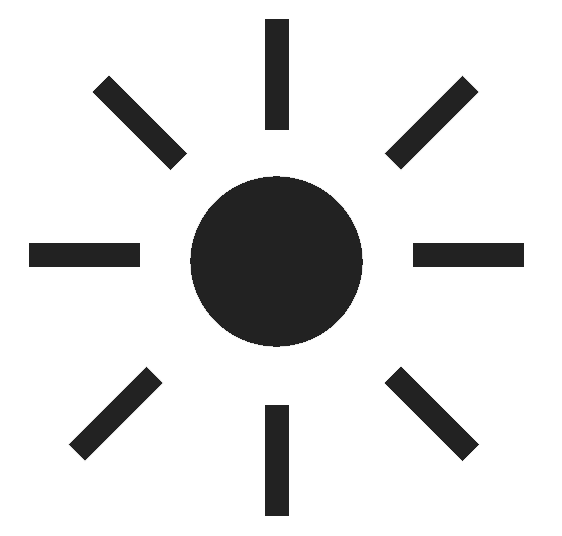
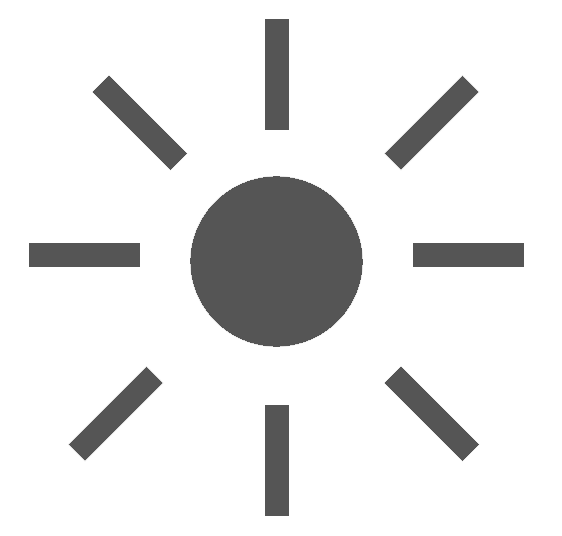
loader on main screen as well as on contact form

diff --git a/src/pages/Projects.jsx b/src/pages/Projects.jsx
@@ -5,25 +5,28 @@ import Content from '../components/Content'
 const Projects = ({ mode }) => {
   return (
     <div id='projects'>
-      <div className='h-[100vh] flex flex-col md:flex-row items-center justify-center gap-4 md:p-0 p-4'>
+      <div className='h-[100vh] flex flex-col md:flex-row items-center justify-center gap-5 md:p-0 p-4'>
         <Project src={'https://know-weather-at-your-current-location.vercel.app/'} mode={mode} />
         <div className='md:w-1/3 w-full py-4'>
           <p className={`text-lg font-medium ${mode === 'theme-light' ? 'text-[#222]' : 'text-[#E0E0E0]'}`}>Know Your Weather</p>
-          <HeaderLine/>
-          <Content mode={mode} text={'Web pages are becoming increasingly complex with more scripts, style sheets, images, and Flash on them. A first-time visit to a page may require several HTTP requests to load all the components. By using Expires headers these components become cacheable, which avoids unnecessary HTTP requests on subsequent page views. Expires headers are most often associated with images, but they can and should be used on all page components including scripts, style sheets, and Flash.'} />
+          <HeaderLine />
+          <Content mode={mode} line1={'Technologies used: React.js, Tailwind CSS, Api Integration, Geolocation'} line2={'OpenWeatherApi is used to fetch real-time weather data'} line3={"Utilizes the browser's Geolocation API to get the user's latitude and longitude"} line4={'Fetches weather details like temperature, humidity, wind speed, and weather conditions.'} />
         </div>
       </div>
 
-      <div className='h-[100vh] flex flex-col md:flex-row-reverse items-center justify-center gap-4 md:p-0 p-4'>
+      <div className='h-[100vh] flex flex-col md:flex-row-reverse items-center justify-center gap-5 md:p-0 p-4'>
         <Project src={'https://forever-frontend-kohl.vercel.app/'} mode={mode} />
         <div className='md:w-1/3 w-full py-4'>
           <p className={`text-lg font-medium ${mode === 'theme-light' ? 'text-[#222]' : 'text-[#E0E0E0]'}`}>An E-commerce Website: Forever</p>
-          <HeaderLine/>
-          <Content mode={mode} text={'Web pages are becoming increasingly complex with more scripts, style sheets, images, and Flash on them. A first-time visit to a page may require several HTTP requests to load all the components. By using Expires headers these components become cacheable, which avoids unnecessary HTTP requests on subsequent page views. Expires headers are most often associated with images, but they can and should be used on all page components including scripts, style sheets, and Flash.'} />
+          <HeaderLine />
+          <Content mode={mode} line1={'Technologies used: React.js, Tailwind CSS, MongoDB, Express.js, Node.js, Payment Integration:Stripe'}
+            line2={"Authentication: JWT (JSON Web Token) for secure user authentication."}
+            line3={"Product Listings: Displays various products with filtering and sorting options."}
+            line4={"Order Management: Users can track their orders, and admins can manage product listings."} />
         </div>
       </div>
 
-      
+
     </div>
   )
 }

diff --git a/src/pages/About.jsx b/src/pages/About.jsx
@@ -6,16 +6,18 @@ const About = ({mode}) => {
   return (
     <div className='h-[100vh] flex flex-col md:flex-row gap-4 items-center justify-center md:p-0 p-4' id='about'>
       <div className='md:w-1/2 w-full'>
-        <p className={`text-2xl py-4 font-semibold ${mode==='theme-light'?'text-[#222]':'text-[#E0E0E0]'}`}>Hey, I'm Vaibhav</p>
+        <p className={`text-xl md:text-2xl py-4 font-semibold ${mode==='theme-light'?'text-[#222]':'text-[#E0E0E0]'}`}>Hey, I'm Vaibhav</p>
         <HeaderLine/>
         <motion.div initial={{y:50,opacity:0}} whileInView={{y:0,opacity:1}} transition={{ease:'easeInOut',duration:1,type:'spring'}} className={`py-2 md:py-3 ${mode==='theme-light'?'text-[#555]':'text-[#AAAAAA]'}`}>
-          <p>A passionate Full-Stack Developer specializing in the MERN stack, I love building dynamic, scalable, and user-friendly web applications. With a strong foundation in MongoDB, Express.js, React, and Node.js, I transform ideas into interactive digital experiences.</p>
+          <div className='text-sm md:text-base'>
+          <p>A passionate Full-Stack Developer specializing in the MERN stack, I love building dynamic, scalable, and user-friendly web applications. With a strong foundation in <span className={`${mode==='theme-light'?'text-[#007BFF]':'text-[#FF007A]'}`}>MongoDB, Express.js, React, Node.js, Python </span> and <span className={`${mode==='theme-light'?'text-[#007BFF]':'text-[#FF007A]'}`}>JAVA</span>. I transform ideas into interactive digital experiences.</p>
           <div className='py-2 md:py-3'>
-            <p>My passion for coding started with curiosity and grew into a career where I solve problems, build products, and continuously learn new technologies. Whether it's developing e-commerce platforms, web apps, or search scrapers, I strive to write clean, maintainable, and efficient code.</p>
+            <p>My passion for coding started with curiosity and grew into a career where I solve problems, build products, and continuously learn new technologies.</p>
+            <p>I'm also a firm believer in the power of technology to make a positive impact on the world. I'm always looking for opportunities to use my skills to make a difference.</p>
           </div>
           <div className='py-2 md:py-3'>
-            
             <p>I'm always open to exciting projects and collaborations. Feel free to <span><a className={`${mode==='theme-light'?'text-[#007BFF] hover:text-[#FF007A]':'text-[#FF007A] hover:text-[#00E5FF]'} transition-all duration-200`} href="#contact">Connect Me</a></span> and let's create something amazing together!</p>
+          </div>
           </div>
           <a href={assets.resume} download={assets.resume}><motion.button whileTap={{ scale: 0.95 }} className={`mt-4 btn-contact text-[#F5F5F5] ${mode==='theme-light'?'bg-[#222222]':'bg-[#FF007A]'} p-4`}>Download Resume</motion.button></a>
         </motion.div>

diff --git a/src/pages/Contact.jsx b/src/pages/Contact.jsx
@@ -3,11 +3,13 @@ import { assets } from '../assets/assets'
 import {motion} from 'motion/react'
 import HeaderLine from '../components/HeaderLine';
 import { toast } from 'react-toastify';
+import ContactLoader from '../components/ContactLoader';
 
 const Contact = ({mode}) => {
 
   const [email,setEmail]=useState('');
   const [message,setMessage]=useState('');
+  const [loader,setLoader]=useState(false);
 
   const onChangeHandler=(e)=>{
     setMessage(e.target.value);
@@ -25,6 +27,8 @@ const Contact = ({mode}) => {
     const object = Object.fromEntries(formData);
     const json = JSON.stringify(object);
 
+    setLoader(true);
+
     const res = await fetch("https://api.web3forms.com/submit", {
       method: "POST",
       headers: {
@@ -37,16 +41,18 @@ const Contact = ({mode}) => {
     if (res.success) {
       setEmail('');
       setMessage('');
+      setLoader(false);
       toast.success("Email sent successfully");
     }
   };
 
   return (
     <div className='h-[100vh] flex items-center justify-center' id='contact'>
+      {loader?<ContactLoader/>:
       <div className='xl:w-1/2 sm:w-4/5 w-full p-4'>
         <p className='text-2xl pb-8'>Contact Me</p>
         <HeaderLine/>
-        <motion.form initial={{x:-50,opacity:0}} whileInView={{x:0,opacity:1}} transition={{type:'spring',duration:1}} onSubmit={onSubmit} className='flex flex-col gap-10 py-12'>
+        <motion.form initial={{x:-50,opacity:0}} whileInView={{x:0,opacity:1}} transition={{type:'spring',duration:0.5}} onSubmit={onSubmit} className='flex flex-col gap-10 py-12'>
           <input className={`p-4 border-b border-[#333333] text-[#777] ${mode==='theme-light'?'bg-[#F5F5F5] border-b-[#555] focus:border-b-[#000]':'bg-[#121212] focus:border-b-[#FF007A]'} outline-none transition-all duration-200`} name='email' value={email} onChange={(e)=>setEmail(e.target.value)}  type="email" placeholder='JoeDoe@gmail.com' required />
           <textarea className={`p-4 border-b resize-none border-[#333333] text-[#777] ${mode==='theme-light'?'bg-[#F5F5F5] border-b-[#555] focus:border-b-[#000]':'bg-[#121212] focus:border-b-[#FF007A]'} outline-none transition-all duration-200`} rows={'1'} name="message" value={message} onChange={(e)=>onChangeHandler(e)} placeholder='Say hello......' required>
           </textarea>
@@ -54,7 +60,7 @@ const Contact = ({mode}) => {
             Send Message <img width={'30rem'} src={assets.send} alt="" />
           </motion.button>
         </motion.form>
-      </div>
+      </div>}
     </div>
   )
 }

diff --git a/src/App.jsx b/src/App.jsx
@@ -6,25 +6,33 @@ import Projects from './pages/Projects';
 import Contact from './pages/Contact';
 import Footer from './components/Footer';
 import { ToastContainer } from 'react-toastify';
+import Loader from './components/Loader';
 
 const App = () => {
+  const [isVisible,setIsVisible]=useState(true);
+  const [theme, setTheme] = useState('theme-dark');
 
-  const [theme,setTheme]=useState('theme-dark');
-
-  useEffect(()=>{
+  useEffect(() => {
     const darkModeMediaQuery = window.matchMedia('(prefers-color-scheme: dark)');
     setTheme(darkModeMediaQuery.matches ? 'theme-dark' : 'theme-light');
-  },[]);
+    setTimeout(()=>{
+      setIsVisible(false);
+    },5000);
+  }, []);
 
   return (
-    <div className={`${theme==='theme-light'?'bg-[#F5F5F5] text-[#555]':'bg-[#121212] text-[#E0E0E0]'} ${theme}`}>
-      <ToastContainer/>
-      <Navbar mode={theme} set={setTheme}/>
-      <Home mode={theme} />
-      <About mode={theme}/>
-      <Projects mode={theme} />
-      <Contact mode={theme}/>
-      <Footer/>
+    <div className={`${theme === 'theme-light' ? 'bg-[#F5F5F5] text-[#555]' : 'bg-[#121212] text-[#E0E0E0]'} ${theme}`}>
+      {isVisible?<Loader mode={theme}/>:
+      <div>
+        <ToastContainer />
+        <Navbar mode={theme} set={setTheme} />
+        <Home mode={theme} />
+        <Projects mode={theme} />
+        <About mode={theme} />
+        <Contact mode={theme} />
+        <Footer />
+      </div>
+      }
     </div>
   )
 }

diff --git a/src/components/Content.jsx b/src/components/Content.jsx
@@ -1,8 +1,15 @@
 import {motion} from 'motion/react'
 
-const Content = ({text,mode}) => {
+const Content = ({line1,line2,line3,line4,mode}) => {
   return (
-    <motion.p initial={{y:50,opacity:0}} whileInView={{y:0,opacity:1}} transition={{ease:'easeInOut',duration:1,type:'spring'}} className={`text-sm ${mode === 'theme-light' ? 'text-[#555]' : 'text-[#AAAAAA]'}`}>{text}</motion.p>
+    <motion.div initial={{y:50,opacity:0}} whileInView={{y:0,opacity:1}} transition={{ease:'easeInOut',duration:0.5,type:'spring'}} className={`text-sm ${mode === 'theme-light' ? 'text-[#555]' : 'text-[#AAAAAA]'}`}>
+      <ul className='list-disc list-inside lg:list-outside text-xs md:text-sm lg:text-base'>
+        <li className='py-0.5'>{line1}</li>
+        <li className='py-0.5'>{line2}</li>
+        <li className='py-0.5'>{line3}</li>
+        <li className='py-0.5'>{line4}</li>
+      </ul>
+      </motion.div>
   )
 }
 

diff --git a/src/components/Project.jsx b/src/components/Project.jsx
@@ -6,9 +6,9 @@ const Project = ({src,mode}) => {
   const [preview,setPreview]=useState(false);
 
   return (
-    <motion.div onClick={()=>setPreview(!preview)}  initial={{opacity:0}} whileInView={{opacity:1}} transition={{duration:2,ease:'easeInOut'}} className='md:w-1/2 w-full md:h-[65vh] h-1/2 border-2'>
+    <motion.div onClick={()=>setPreview(!preview)}  initial={{opacity:0}} whileInView={{opacity:1}} transition={{duration:1,ease:'easeInOut'}} className='md:w-1/2 w-full md:h-[65vh] h-1/2 border-2'>
       {!preview?
-      <div className={`w-full h-full flex justify-center items-center ${mode==='theme-light'?'bg-[#222]':'bg-[#555]'} underline`}>
+      <div className={`w-full h-full flex justify-center items-center bg-[#555] text-[#E0E0E0] underline cursor-pointer`}>
           View Site
       </div>:
       <iframe src={src} sandbox="allow-scripts allow-same-origin" className='w-full h-full'/>}

diff --git a/src/components/Navbar.jsx b/src/components/Navbar.jsx
@@ -25,7 +25,7 @@ const Navbar = ({ mode, set }) => {
           {!sidemenu && (
             <div>
               <a href='/' className={'block'}>
-                <p className='text-3xl font-bold'>V</p>
+                <img className='w-4 md:w-6' src={`${mode==='theme-light'?'/lightModeLogo.png':'/darkModeLogo.png'}`} alt="" />
               </a>
             </div>
           )}
@@ -63,7 +63,7 @@ const Navbar = ({ mode, set }) => {
       >
         <div className='flex justify-between items-center w-full px-6 py-8'>
           <a href='/' onClick={() => setSidemenu(false)}>
-            <p className='text-3xl font-bold'>V</p>
+          <img className='w-8' src={`${mode==='theme-light'?'/lightModeLogo.png':'/darkModeLogo.png'}`} alt="" />
           </a>
           <motion.button
             whileTap={{ scale: 0.95, opacity: 0.5 }}

diff --git a/src/components/Loader.jsx b/src/components/Loader.jsx
@@ -1,0 +1,25 @@
+import { useState, useEffect } from "react";
+import {motion} from 'motion/react'
+
+const Loader = ({mode}) => {
+  const text = "Just a Developer, Standing in Front of a Bug...";
+  const [visibleText, setVisibleText] = useState("");
+
+  useEffect(() => {
+    text.split("").forEach((char, index) => {
+      setTimeout(() => {
+        setVisibleText((prev) => prev + char);
+      }, index * 75);
+    });
+  }, []);
+
+  
+
+  return (
+    <motion.div initial={{opacity:1}} animate={{opacity:0}} transition={{duration:2.9,ease:'easeInOut',delay:3}} className={`flex p-4 justify-center items-center w-screen h-screen text-lg ${mode==='theme-light'?'text-[#00E5FF]':'text-[#FF007A]'}`}>
+        {visibleText}
+    </motion.div>
+  );
+};
+
+export default Loader;

diff --git a/src/components/ContactLoader.jsx b/src/components/ContactLoader.jsx
@@ -1,0 +1,24 @@
+import {motion} from 'motion/react'
+
+const ContactLoader = () => {
+  return (
+    <motion.div 
+    className='w-10 h-10 bg-[#FF007A] rounded-full'
+    animate={{
+        scale: [1, 2, 2, 1, 1],
+        rotate: [0, 0, 180, 180, 0],
+        borderRadius: ["0%", "0%", "50%", "50%", "0%"],
+    }}
+    transition={{
+        duration: 2,
+        ease: "easeInOut",
+        times: [0, 0.2, 0.5, 0.8, 1],
+        repeat: Infinity,
+        repeatDelay: 1,
+    }}
+    
+/>
+  )
+}
+
+export default ContactLoader

diff --git a/index.html b/index.html
@@ -4,6 +4,7 @@
 <head>
   <meta charset="UTF-8" />
   <meta name="viewport" content="width=device-width, initial-scale=1.0" />
+  <link rel="icon" href="/icon.png" type="image/x-icon">
   <link rel="stylesheet" href="https://cdnjs.cloudflare.com/ajax/libs/font-awesome/6.7.2/css/all.min.css"
     integrity="sha512-Evv84Mr4kqVGRNSgIGL/F/aIDqQb7xQ2vcrdIwxfjThSH8CSR7PBEakCr51Ck+w+/U6swU2Im1vVX0SVk9ABhg=="
     crossorigin="anonymous" referrerpolicy="no-referrer" />

diff --git a/src/components/HeaderLine.jsx b/src/components/HeaderLine.jsx
@@ -2,7 +2,7 @@ import {motion} from 'motion/react'
 
 const HeaderLine = () => {
   return (
-    <motion.div initial={{width:0}} whileInView={{width:"auto"}} transition={{duration:1, ease:'easeInOut'}} className='h-4 w-full clip-path-hr my-2'>
+    <motion.div initial={{width:0}} whileInView={{width:"auto"}} transition={{duration:0.5, ease:'easeInOut'}} className='h-4 w-full clip-path-hr my-2'>
       
     </motion.div>
   )

diff --git a/src/index.css b/src/index.css
@@ -50,6 +50,6 @@ textarea::-webkit-scrollbar{
 
 @media screen and (width<64rem) {
     .bot{
-        clip-path: polygon(0% 0%,100% 0%,100% 71%,0% 71%);
+        clip-path: polygon(0% 0%,100% 0%,100% 80%,0% 80%);
     }
 }
